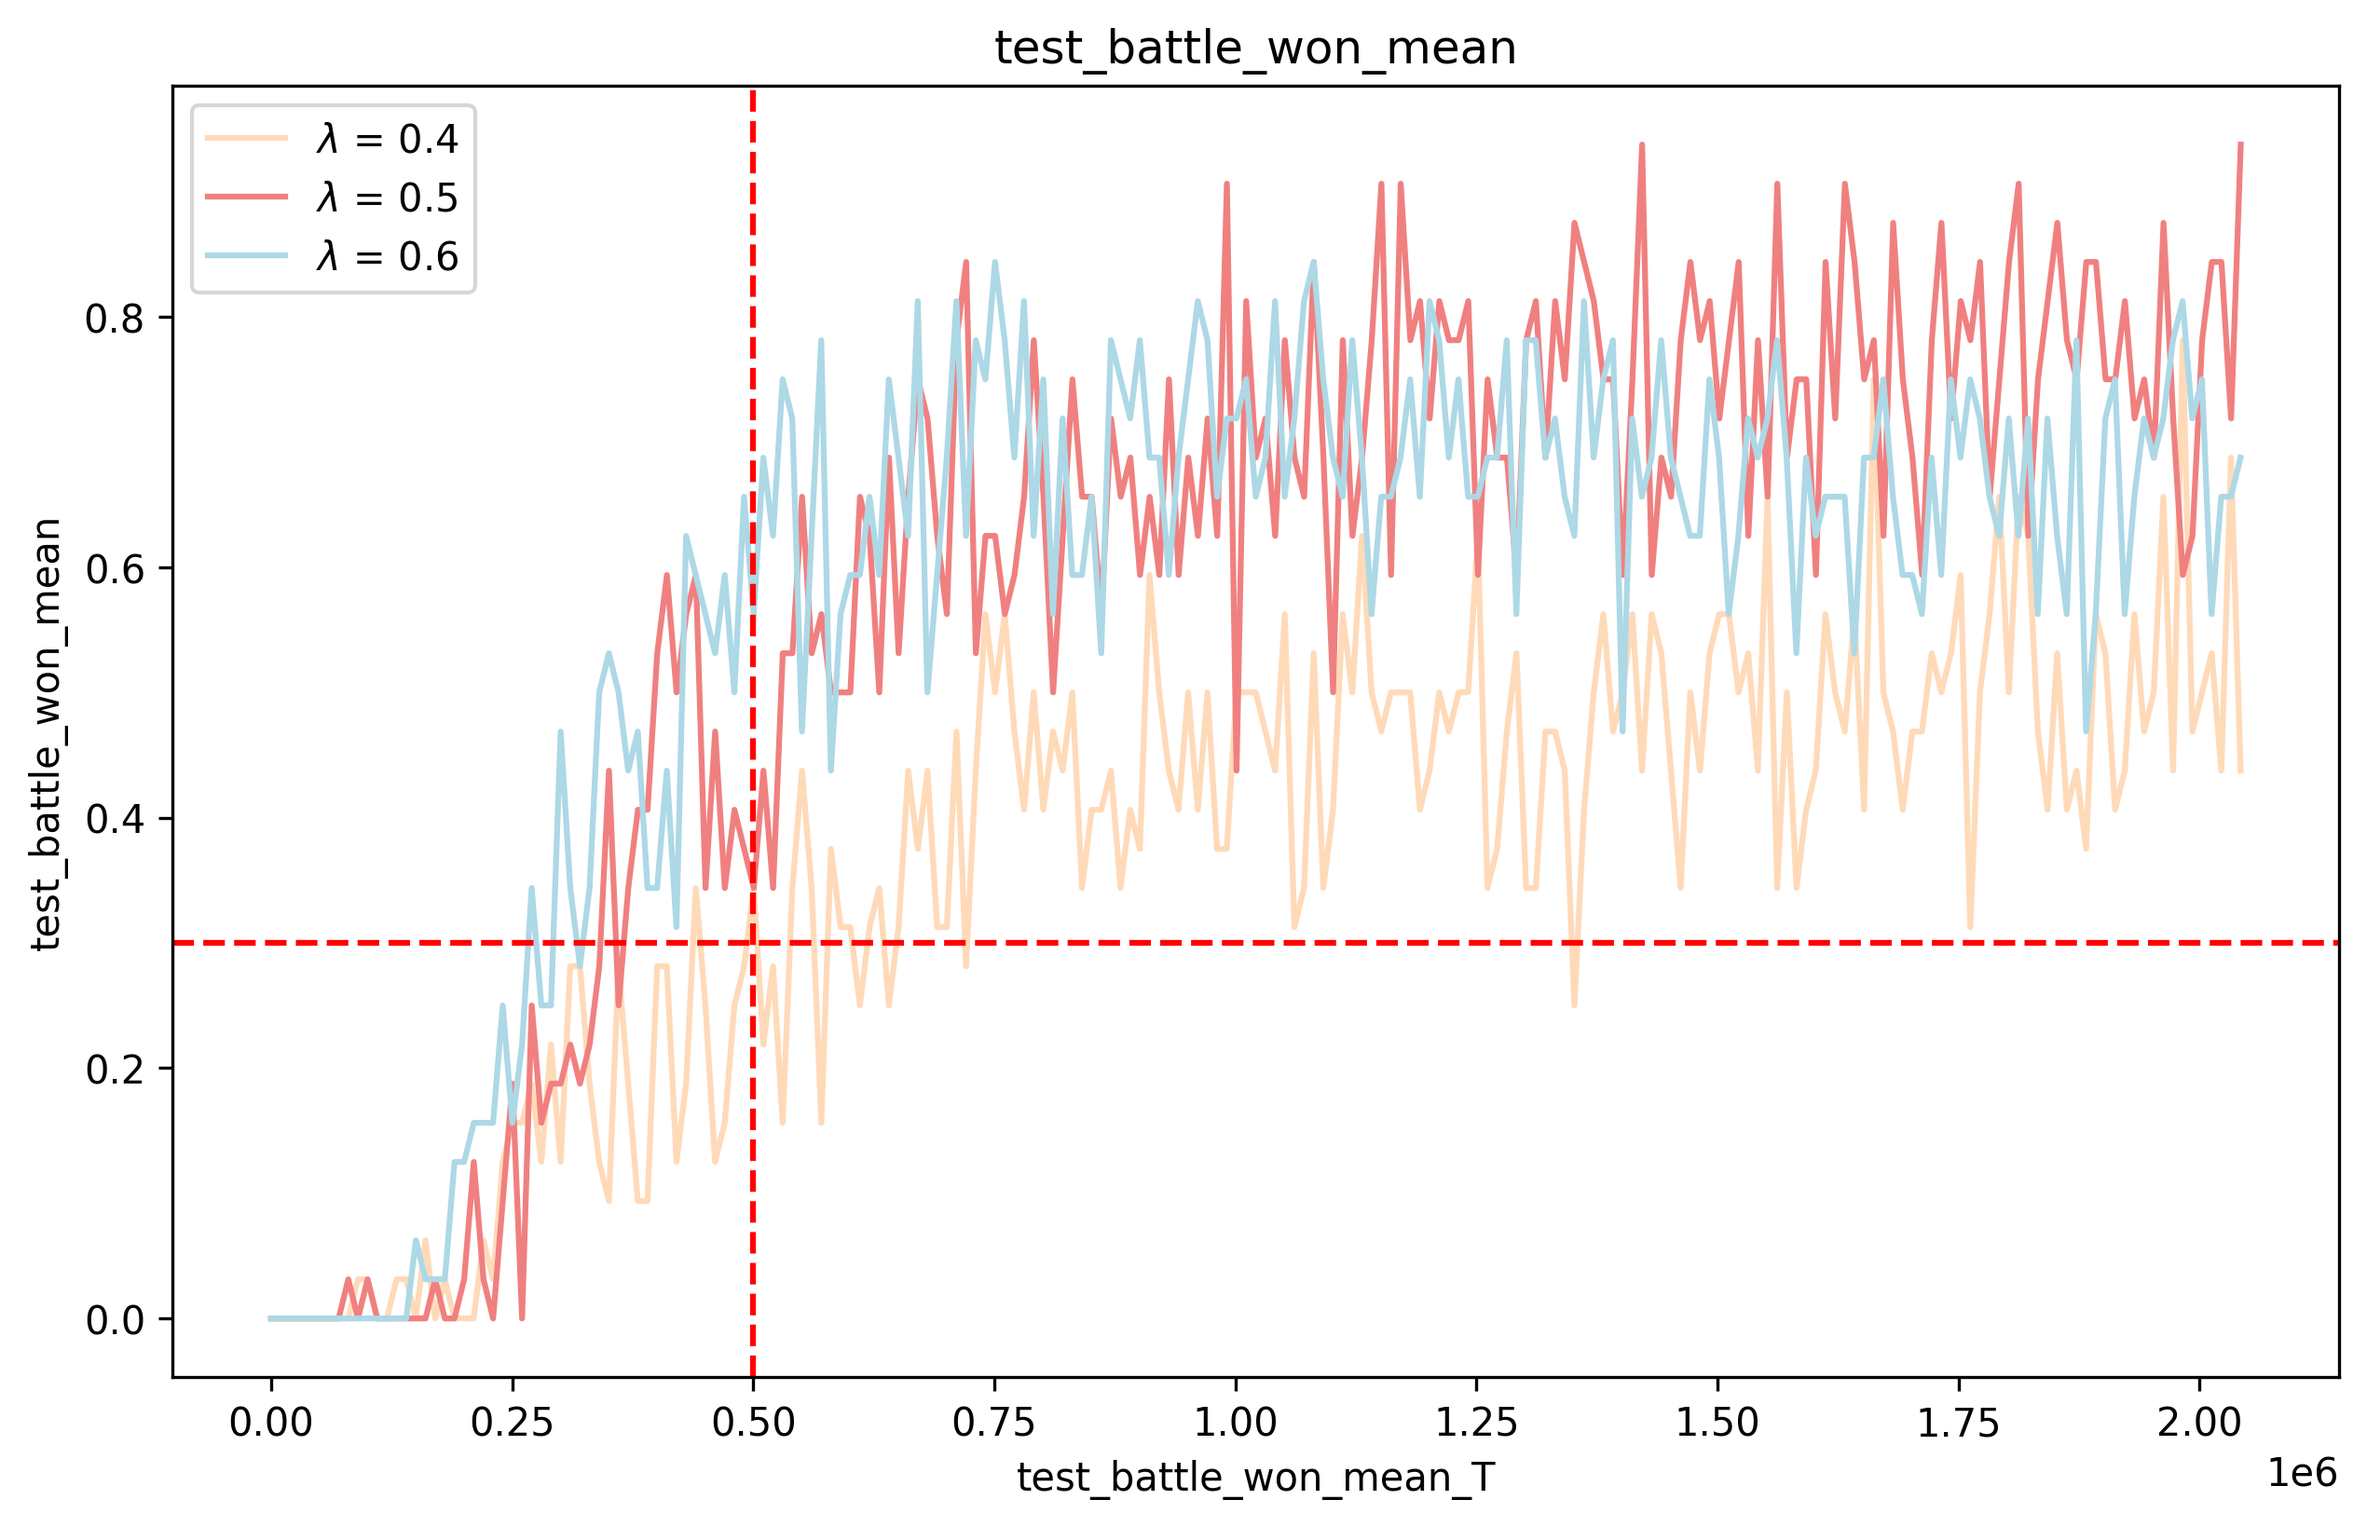
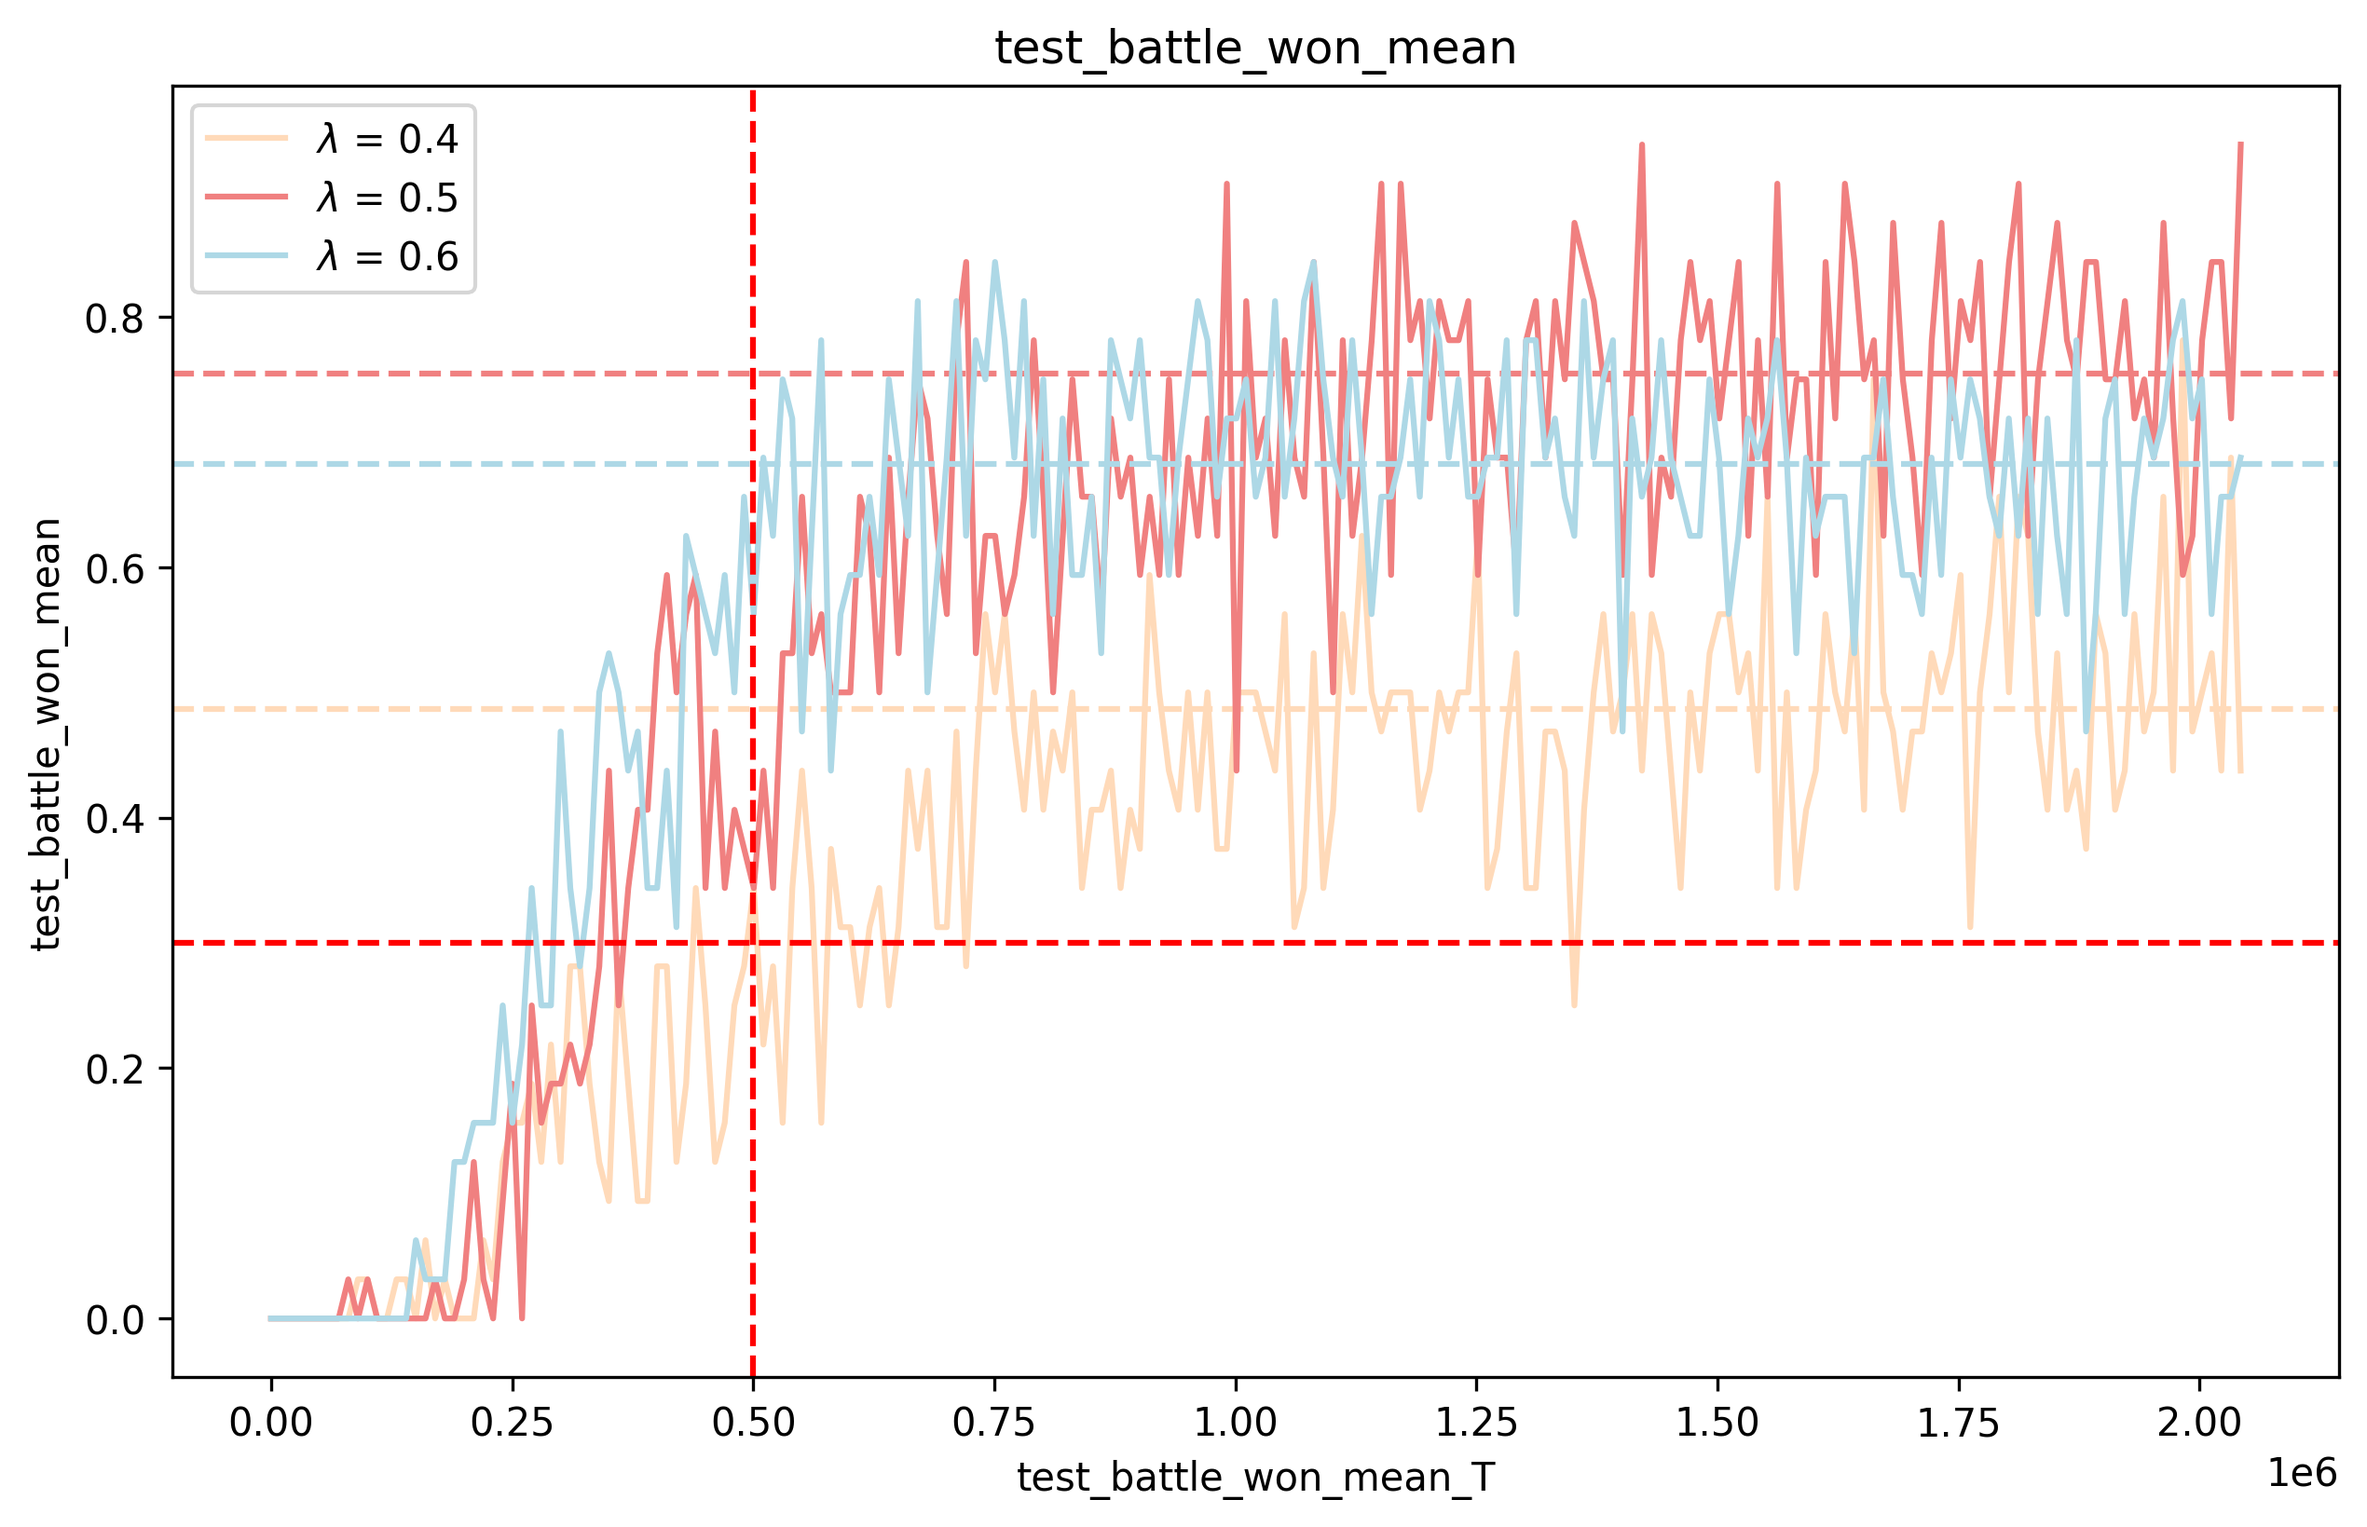
Add and change

diff --git a/draw_all_original.py b/draw_all_original.py
@@ -4,6 +4,8 @@ import matplotlib.pyplot as plt
 
 lambdas = [0.4, 0.5, 0.6]  # 这里是你的三个 lambda 值
 
+name = 'td_error_abs'
+
 # 从文件中读取数据
 data = {}
 for _lambda in lambdas:
@@ -30,22 +32,26 @@ def plot_and_save(name, lambdas, file_name='output.png'):
         # # 绘制原始数据点（蓝色点）
         # plt.scatter(x_values, y_values, color='blue', label='Original Data' if i == 0 else "")
         
-        # # 绘制拟合线（橙色实线）
-        # plt.plot(x_values, y_values, color=colors[i], label=f'$\\lambda$ = {_lambda}')
-        
-        # 计算移动平均（五次平均）
-        y_ma = moving_average(y_values, window_size=5)
-        
-        # 移动平均后的 x 值
-        x_ma = x_values[:len(y_ma)]
-        
-        # 绘制平滑的移动平均线
-        plt.plot(x_ma, y_ma, linestyle='--', color=colors[i], label=labels[i])
+        # 绘制拟合线（橙色实线）
+        plt.plot(x_values, y_values, color=colors[i], label=f'$\\lambda$ = {_lambda}')
 
-    # 绘制红色虚线， y = 0.3
-    plt.axhline(y=0.3, color='red', linestyle='--')
+        # 绘制后一半数据的平均值
+        half_index = len(y_values) // 2
+        plt.axhline(y=np.average(y_values[half_index:]), color=colors[i], linestyle='--')
+        
+        # # 计算移动平均（五次平均）
+        # y_ma = moving_average(y_values, window_size=5)
+        
+        # # 移动平均后的 x 值
+        # x_ma = x_values[:len(y_ma)]
+        
+        # # 绘制平滑的移动平均线
+        # plt.plot(x_ma, y_ma, linestyle='--', color=colors[i], label=labels[i])
 
-    plt.axvline(x=5e5, color='red', linestyle='--')
+    # # 绘制红色虚线， y = 0.3
+    # plt.axhline(y=0.3, color='red', linestyle='--')
+
+    # plt.axvline(x=5e5, color='red', linestyle='--')
     
     # 添加标题和标签
     plt.title(f'{name}')
@@ -58,4 +64,4 @@ def plot_and_save(name, lambdas, file_name='output.png'):
     plt.close()
 
 # 使用函数绘制并保存图片
-plot_and_save('test_battle_won_mean', lambdas, 'test_battle_won_mean_plot_5_avg.png')
+plot_and_save(name, lambdas, f'{name}_plot.png')

diff --git a/draw_all_5_avg.py b/draw_all_5_avg.py
@@ -4,6 +4,8 @@ import matplotlib.pyplot as plt
 
 lambdas = [0.4, 0.5, 0.6]  # 这里是你的三个 lambda 值
 
+name = 'td_error_abs'
+
 # 从文件中读取数据
 data = {}
 for _lambda in lambdas:
@@ -42,10 +44,10 @@ def plot_and_save(name, lambdas, file_name='output.png'):
         # 绘制平滑的移动平均线
         plt.plot(x_ma, y_ma, linestyle='--', color=colors[i], label=labels[i])
 
-    # 绘制红色虚线， y = 0.3
-    plt.axhline(y=0.3, color='red', linestyle='--')
+    # # 绘制红色虚线， y = 0.3
+    # plt.axhline(y=0.3, color='red', linestyle='--')
 
-    plt.axvline(x=5e5, color='red', linestyle='--')
+    # plt.axvline(x=5e5, color='red', linestyle='--')
     
     # 添加标题和标签
     plt.title(f'{name}')
@@ -58,4 +60,4 @@ def plot_and_save(name, lambdas, file_name='output.png'):
     plt.close()
 
 # 使用函数绘制并保存图片
-plot_and_save('test_battle_won_mean', lambdas, 'test_battle_won_mean_plot_5_avg.png')
+plot_and_save(name, lambdas, f'{name}_plot_5_avg.png')
